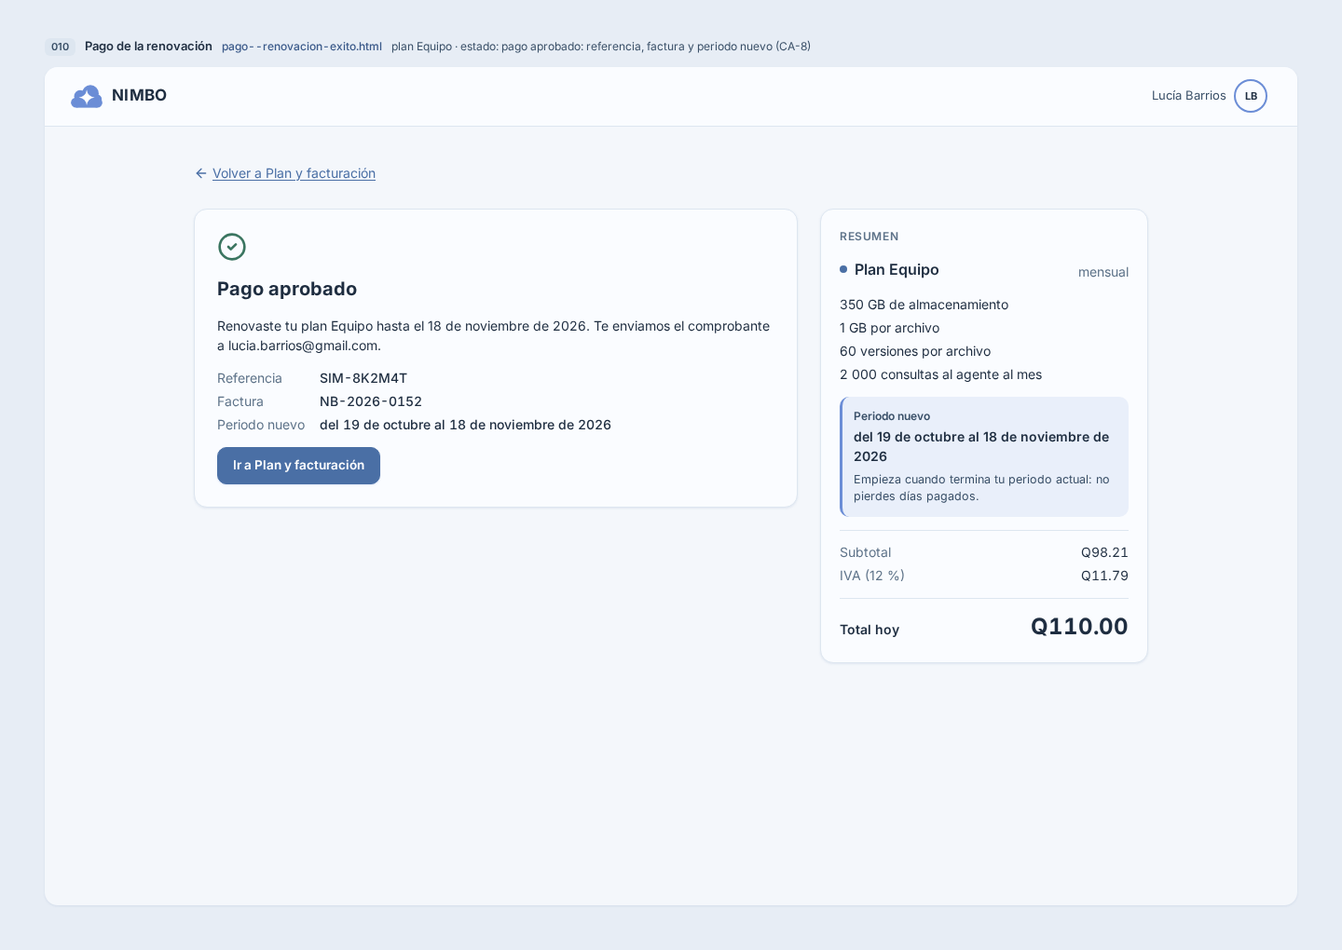
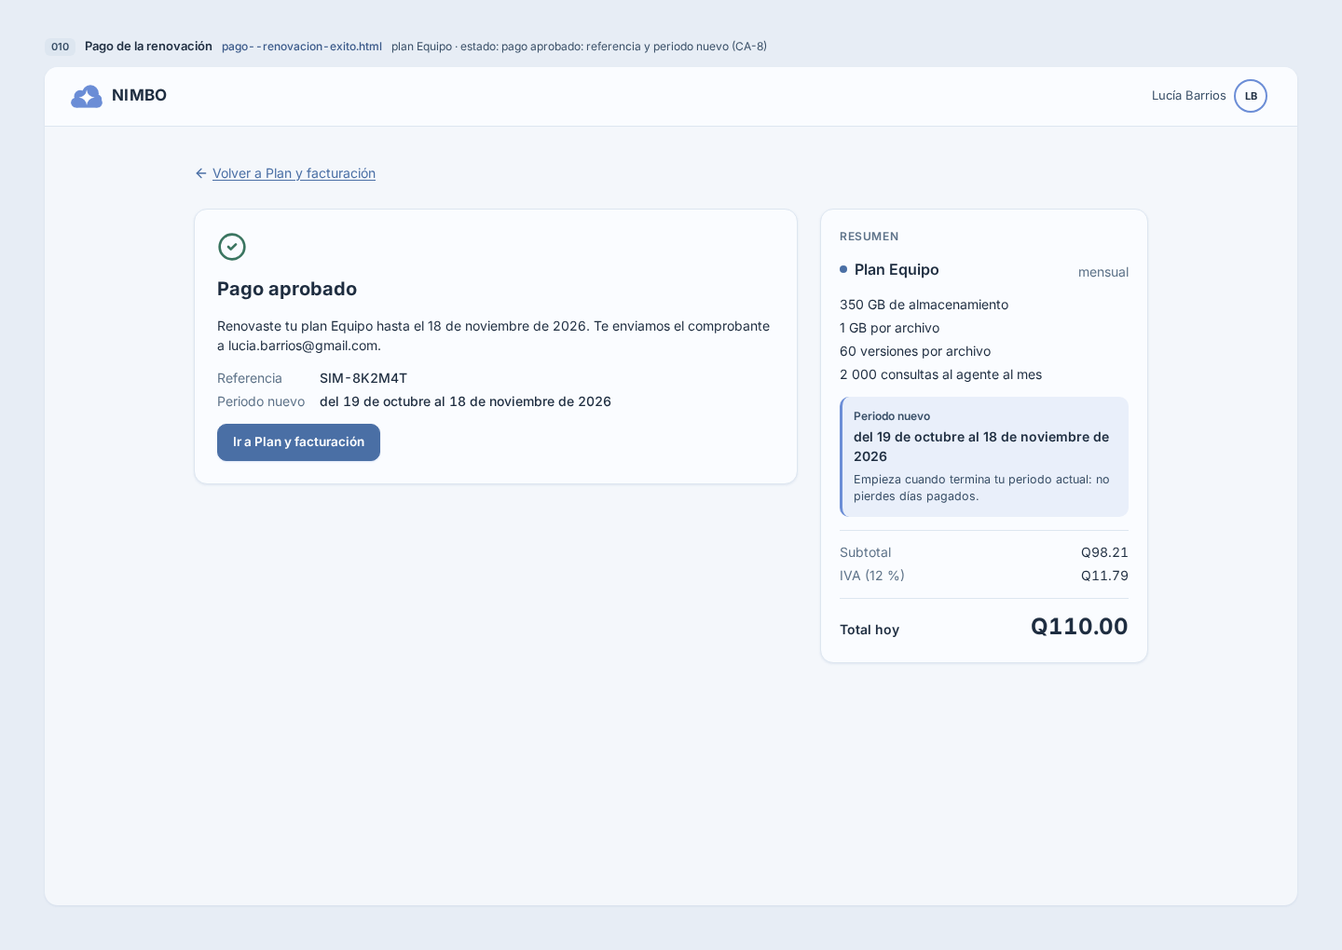
docs(design): mockups de la 010 alineados con la spec y la web [010]
Quinta auditoría del PR #63: M-5 (el aprobado de la renovación sin número de
factura; «Visa ···· 4242» como en spec §6), m-1 (comentario de pagina),
m-2 (CSS_PLANES en generar-planes), m-3 (inputmode por parámetro), m-4
(consultas del plan y subtotal e IVA calculados con la regla de breakdown.ts),
m-5 (VENCE y AVISO_VENCIDA en billing.js), m-6 (layoutPago) y m-7
(ui-guidelines). Los refactores reproducen el mismo HTML; se recapturan los
dos estados que cambian.

Changed region(s): [[0.1562, 0.3951, 0.4688, 0.5167], [0.4688, 0.0304, 0.5938, 0.0608]]

diff --git a/docs/design/mockups/_generadores/billing/generar-pago.js b/docs/design/mockups/_generadores/billing/generar-pago.js
@@ -10,6 +10,16 @@ const repo = process.argv[2];
 if (!repo) throw new Error('Falta la ruta del worktree');
 const { icon, ACTUAL, CORREO, alerta } = B;
 
+// Subtotal e IVA desde el precio, con la regla de packages/contracts/src/billing/breakdown.ts (RN-2 de la 009):
+// subtotal = precio × 100 / 112 redondeado al centavo (mitades hacia arriba); IVA = precio − subtotal.
+function importes(precio) {
+  const total = Math.round(Number(precio.replace('Q', '')) * 100);
+  const subtotal = Math.floor((total * 100 + 56) / 112);
+  const q = (centavos) => `Q${(centavos / 100).toFixed(2)}`;
+  return { subtotal: q(subtotal), iva: q(total - subtotal) };
+}
+const IMPORTES = importes(ACTUAL.precio);
+
 const CSS_PAGO = `
   .pay { max-width: 1024px; margin: 0 auto; display: flex; flex-direction: column; gap: 16px; }
   .pay-grid { display: grid; grid-template-columns: minmax(0, 1fr) 22rem; gap: 24px; align-items: start; }
@@ -73,11 +83,11 @@ const PERIODOS = {
   },
 };
 
-function campo({ id, label, valor, tipo = 'text', auto, hint, adorno, extra = '' }) {
+function campo({ id, label, valor, tipo = 'text', modo = 'numeric', auto, hint, adorno, extra = '' }) {
   return `
             <div class="f">
               <label for="${id}">${label}</label>
-              <div class="f-ctl"><input id="${id}" type="${tipo}" inputmode="${id === 'pago-nit' ? 'text' : 'numeric'}" autocomplete="${auto}" value="${valor}"${adorno ? ' class="pr"' : ''}${hint ? ` aria-describedby="${id}-ayuda"` : ''}${extra}>${adorno ? `<span class="f-adorn"><span class="badge">${adorno}</span></span>` : ''}</div>${hint ? `
+              <div class="f-ctl"><input id="${id}" type="${tipo}" inputmode="${modo}" autocomplete="${auto}" value="${valor}"${adorno ? ' class="pr"' : ''}${hint ? ` aria-describedby="${id}-ayuda"` : ''}${extra}>${adorno ? `<span class="f-adorn"><span class="badge">${adorno}</span></span>` : ''}</div>${hint ? `
               <p class="f-hint" id="${id}-ayuda">${hint}</p>` : ''}
             </div>`;
 }
@@ -95,7 +105,7 @@ function formulario({ numero, rechazado = false }) {
             </header>${fallo}
             <form novalidate>${campo({ id: 'pago-number', label: 'Número de tarjeta', valor: numero, auto: 'cc-number', adorno: 'VISA' })}
               <div class="row2">${campo({ id: 'pago-expiry', label: 'Vencimiento', valor: '12/28', auto: 'cc-exp', hint: 'Mes y año, como 12/28.' })}${campo({ id: 'pago-cvc', label: 'CVC', valor: '123', tipo: 'password', auto: 'cc-csc' })}
-              </div>${campo({ id: 'pago-nit', label: 'NIT para la factura', valor: '4527913-6', auto: 'off' })}
+              </div>${campo({ id: 'pago-nit', label: 'NIT para la factura', valor: '4527913-6', modo: 'text', auto: 'off' })}
               <button class="btn btn-primary" type="submit">Pagar ${ACTUAL.precio}</button>
             </form>
             <div class="test-cards">Tarjetas de prueba:
@@ -116,15 +126,15 @@ const resumen = (per) => `
               <li>${ACTUAL.almac} de almacenamiento</li>
               <li>${ACTUAL.archivo} por archivo</li>
               <li>${ACTUAL.versiones} versiones por archivo</li>
-              <li>2 000 consultas al agente al mes</li>
+              <li>${ACTUAL.agente.replace(' / mes', '')} consultas al agente al mes</li>
             </ul>
             <div class="period">
               <dl><dt>Periodo nuevo</dt><dd>${per.rango}</dd></dl>
               <p>${per.nota}</p>
             </div>
             <dl class="amounts">
-              <div><dt>Subtotal</dt><dd>Q98.21</dd></div>
-              <div><dt>IVA (12 %)</dt><dd>Q11.79</dd></div>
+              <div><dt>Subtotal</dt><dd>${IMPORTES.subtotal}</dd></div>
+              <div><dt>IVA (12 %)</dt><dd>${IMPORTES.iva}</dd></div>
             </dl>
             <p class="total"><span>Total hoy</span><span>${ACTUAL.precio}</span></p>
           </section>`;
@@ -136,13 +146,12 @@ const aprobado = (per, { soloLectura = false } = {}) => `
             <p>Renovaste tu plan ${ACTUAL.nombre} hasta el ${per.vence}. Te enviamos el comprobante a ${CORREO}.${soloLectura ? ' Tu cuenta ya no está en solo lectura: puedes volver a subir y editar.' : ''}</p>
             <dl>
               <dt>Referencia</dt><dd>SIM-8K2M4T</dd>
-              <dt>Factura</dt><dd>NB-2026-0152</dd>
               <dt>Periodo nuevo</dt><dd>${per.rango}</dd>
             </dl>
             <a class="btn btn-primary" href="../suscripcion/suscripcion--vigente.html">Ir a Plan y facturación</a>
           </section>`;
 
-const pagina = (izq, per) => `
+const layoutPago = (izq, per) => `
         <div class="pay">
           <a class="back" href="../suscripcion/suscripcion--por-vencer.html">${icon('arrowLeft', 16)}Volver a Plan y facturación</a>
           <div class="pay-grid">${izq}${resumen(per)}
@@ -153,19 +162,19 @@ const A = PERIODOS.anticipada;
 const ESTADOS = [
   {
     estado: 'renovacion', rotulo: `renovar por adelantado (vence el 19 de octubre): el resumen muestra el periodo nuevo ${A.rango} (CA-8)`,
-    cuerpo: pagina(formulario({ numero: '4242 4242 4242 4242' }), A),
+    cuerpo: layoutPago(formulario({ numero: '4242 4242 4242 4242' }), A),
   },
   {
     estado: 'renovacion-rechazado', rotulo: 'tarjeta 4000 0000 0000 0002 rechazada: nada cambia (CA-9)',
-    cuerpo: pagina(formulario({ numero: '4000 0000 0000 0002', rechazado: true }), A),
+    cuerpo: layoutPago(formulario({ numero: '4000 0000 0000 0002', rechazado: true }), A),
   },
   {
-    estado: 'renovacion-exito', rotulo: 'pago aprobado: referencia, factura y periodo nuevo (CA-8)',
-    cuerpo: pagina(aprobado(A), A),
+    estado: 'renovacion-exito', rotulo: 'pago aprobado: referencia y periodo nuevo (CA-8)',
+    cuerpo: layoutPago(aprobado(A), A),
   },
   {
     estado: 'renovacion-solo-lectura', rotulo: 'renovar desde solo lectura: el periodo nuevo empieza hoy (CA-10)',
-    cuerpo: pagina(formulario({ numero: '4242 4242 4242 4242' }), PERIODOS.soloLectura),
+    cuerpo: layoutPago(formulario({ numero: '4242 4242 4242 4242' }), PERIODOS.soloLectura),
   },
 ];
 

diff --git a/docs/design/mockups/_generadores/billing/billing.js b/docs/design/mockups/_generadores/billing/billing.js
@@ -32,6 +32,13 @@ const PLANES = {
 const ACTUAL = PLANES.equipo;
 // Tarjeta guardada del último pago aprobado: solo marca y últimos 4, para mostrar (RN-2, RN-9 de la 009)
 const TARJETA = { marca: 'VISA', ultimos: '4242' };
+// Fin del periodo vigente de los estados (5 de octubre al 4 de noviembre).
+const VENCE = '4 de noviembre de 2026';
+// Textos del aviso de cuenta vencida (M.avisoSoloLectura), iguales en Plan y facturación y en Cambiar de plan.
+const AVISO_VENCIDA = {
+  titulo: 'Tu suscripción venció.',
+  cuerpo: 'Puedes ver y descargar tus archivos, pero no subir ni editar. Renueva tu plan.',
+};
 const CORREO = M.CUENTA.correo;
 // Uso de Lucía: cabe en Pro (100 GB) y no en Personal (15 GB)
 const CUOTA = { usado: '64.2 GB', total: '350 GB', pct: 18 };
@@ -188,6 +195,8 @@ function alerta(a) {
 }
 
 const tarjetaTexto = (t = TARJETA) => `<span class="brand-chip">${t.marca}</span> <span class="num">···· ${t.ultimos}</span>`;
+// La tarjeta dentro de una frase, como la web (spec 010 §6): «Visa ···· 4242».
+const tarjetaEnFrase = (t = TARJETA) => `${t.marca.charAt(0)}${t.marca.slice(1).toLowerCase()} ···· ${t.ultimos}`;
 
 // Diálogo (AlertDialog de shadcn). d: { titulo, descripcion, resumen: [[dt, dd]], aviso: { titulo, items }, error,
 // confirmar, cancelar = 'Cancelar', foco: 'cancelar' | 'confirmar' }
@@ -226,7 +235,7 @@ const topbarSolo = () => `
         </button>
       </header>`;
 
-// p: { carpeta, archivo, chip, pantalla, rotulo, titulo, crumbs, cuerpo, dialogo, sinBarra, generador }
+// p: { pantalla, archivo, rotulo, estado, crumbs, cuerpo, dialogo, sinBarra, css, generador }
 function pagina(p) {
   const html = `${M.cabecera({
     titulo: `${p.pantalla} · Nimbo — ${p.rotulo}`,
@@ -265,32 +274,6 @@ function escribir(repo, carpeta, archivo, html) {
   console.log(`billing/${carpeta}/${archivo}`);
 }
 
-module.exports = { P, icon, PLANES, ACTUAL, TARJETA, CORREO, CUOTA, CSS, alerta, tarjetaTexto, dialogo, pagina, escribir };
-
-// ---------- CSS de la lista de planes (PlanCard de 008 + PlanComparisonTable de 009) ----------
-module.exports.CSS_PLANES = `
-  .plans { display: grid; grid-template-columns: repeat(4, minmax(0, 1fr)); gap: 16px; margin-top: 20px; }
-  .pc { padding: 20px; display: flex; flex-direction: column; gap: 14px; }
-  .pc.is-current { border-color: var(--primary); box-shadow: inset 0 0 0 1px var(--primary), var(--shadow-card); }
-  .pc-head { display: flex; flex-wrap: wrap; align-items: center; justify-content: space-between; gap: 8px; }
-  .pc h2 { font-size: 16px; }
-  .pc-desc { margin: 0; min-height: 40px; font-size: 13px; color: var(--muted-foreground); }
-  .pc-price { margin: 0; display: flex; align-items: baseline; gap: 4px; font-size: 24px; font-weight: 700; font-variant-numeric: tabular-nums; }
-  .pc-price span { font-size: 12px; font-weight: 400; color: var(--muted-foreground); }
-  .pc dl { margin: 0; padding-top: 10px; border-top: 1px solid var(--border); display: grid; gap: 8px; font-size: 13px; }
-  .pc dl div { display: flex; justify-content: space-between; gap: 8px; }
-  .pc dt { color: var(--muted-foreground); }
-  .pc dd { margin: 0; font-weight: 500; font-variant-numeric: tabular-nums; }
-  .pc-action { margin-top: auto; padding-top: 4px; }
-  .pc-action .btn { width: 100%; }
-  .pc-current { display: flex; align-items: center; justify-content: center; gap: 6px; min-height: 40px; margin: 0; font-size: 13.5px; font-weight: 600; color: var(--primary-hover); }
-  .cmp { margin-top: 20px; overflow-x: auto; }
-  .cmp table { width: 100%; border-collapse: collapse; font-size: 13px; }
-  .cmp th, .cmp td { padding: 12px 16px; border-bottom: 1px solid var(--border); text-align: center; white-space: nowrap; }
-  .cmp thead th { font-weight: 600; background: var(--muted); }
-  .cmp tbody th { text-align: left; font-weight: 500; color: var(--secondary-foreground); }
-  .cmp tbody tr:last-child > * { border-bottom: 0; }
-  .cmp td { font-variant-numeric: tabular-nums; }
-  @media (max-width: 1180px) { .plans { grid-template-columns: repeat(2, minmax(0, 1fr)); } }
-  @media (max-width: 600px) { .plans { grid-template-columns: minmax(0, 1fr); } .pc-desc { min-height: 0; } .pc-action .btn { min-height: 44px; } }
-`;
+module.exports = {
+  P, icon, PLANES, ACTUAL, TARJETA, VENCE, AVISO_VENCIDA, CORREO, CUOTA, CSS, alerta, tarjetaTexto, tarjetaEnFrase, dialogo, pagina, escribir,
+};

diff --git a/docs/design/mockups/_generadores/billing/generar-planes.js b/docs/design/mockups/_generadores/billing/generar-planes.js
@@ -9,9 +9,36 @@ const B = require('./billing.js');
 
 const repo = process.argv[2];
 if (!repo) throw new Error('Falta la ruta del worktree');
-const { icon, PLANES, ACTUAL, TARJETA, CUOTA, tarjetaTexto } = B;
-const VENCE = '4 de noviembre de 2026';
+const { icon, PLANES, ACTUAL, TARJETA, VENCE, AVISO_VENCIDA, CUOTA, tarjetaTexto } = B;
 const ORDEN = ['personal', 'pro', 'equipo', 'institucional'];
+
+// ---------- CSS de la lista de planes (PlanCard de 008 + PlanComparisonTable de 009) ----------
+const CSS_PLANES = `
+  .plans { display: grid; grid-template-columns: repeat(4, minmax(0, 1fr)); gap: 16px; margin-top: 20px; }
+  .pc { padding: 20px; display: flex; flex-direction: column; gap: 14px; }
+  .pc.is-current { border-color: var(--primary); box-shadow: inset 0 0 0 1px var(--primary), var(--shadow-card); }
+  .pc-head { display: flex; flex-wrap: wrap; align-items: center; justify-content: space-between; gap: 8px; }
+  .pc h2 { font-size: 16px; }
+  .pc-desc { margin: 0; min-height: 40px; font-size: 13px; color: var(--muted-foreground); }
+  .pc-price { margin: 0; display: flex; align-items: baseline; gap: 4px; font-size: 24px; font-weight: 700; font-variant-numeric: tabular-nums; }
+  .pc-price span { font-size: 12px; font-weight: 400; color: var(--muted-foreground); }
+  .pc dl { margin: 0; padding-top: 10px; border-top: 1px solid var(--border); display: grid; gap: 8px; font-size: 13px; }
+  .pc dl div { display: flex; justify-content: space-between; gap: 8px; }
+  .pc dt { color: var(--muted-foreground); }
+  .pc dd { margin: 0; font-weight: 500; font-variant-numeric: tabular-nums; }
+  .pc-action { margin-top: auto; padding-top: 4px; }
+  .pc-action .btn { width: 100%; }
+  .pc-current { display: flex; align-items: center; justify-content: center; gap: 6px; min-height: 40px; margin: 0; font-size: 13.5px; font-weight: 600; color: var(--primary-hover); }
+  .cmp { margin-top: 20px; overflow-x: auto; }
+  .cmp table { width: 100%; border-collapse: collapse; font-size: 13px; }
+  .cmp th, .cmp td { padding: 12px 16px; border-bottom: 1px solid var(--border); text-align: center; white-space: nowrap; }
+  .cmp thead th { font-weight: 600; background: var(--muted); }
+  .cmp tbody th { text-align: left; font-weight: 500; color: var(--secondary-foreground); }
+  .cmp tbody tr:last-child > * { border-bottom: 0; }
+  .cmp td { font-variant-numeric: tabular-nums; }
+  @media (max-width: 1180px) { .plans { grid-template-columns: repeat(2, minmax(0, 1fr)); } }
+  @media (max-width: 600px) { .plans { grid-template-columns: minmax(0, 1fr); } .pc-desc { min-height: 0; } .pc-action .btn { min-height: 44px; } }
+`;
 
 // ---------- Lista ----------
 function tarjetaPlan(clave) {
@@ -54,11 +81,7 @@ function lista({ soloLectura = false } = {}) {
   const intro = soloLectura
     ? 'Tu suscripción venció. Si eliges Personal, el cambio se aplica de inmediato y sin cobro. Si eliges un plan de pago, se aplica cuando renueves.'
     : `El cambio se aplica el ${VENCE}, cuando termina tu periodo. Hasta entonces conservas ${ACTUAL.nombre} y sus límites. No hay cobro proporcional.`;
-  const banner = soloLectura ? M.avisoSoloLectura({
-    titulo: 'Tu suscripción venció.',
-    cuerpo: 'Puedes ver y descargar tus archivos, pero no subir ni editar. Renueva tu plan.',
-    href: '../pago/pago--renovacion.html',
-  }) : '';
+  const banner = soloLectura ? M.avisoSoloLectura({ ...AVISO_VENCIDA, href: '../pago/pago--renovacion.html' }) : '';
   return `${banner}
         <a class="back" href="../suscripcion/suscripcion--${soloLectura ? 'vencida' : 'vigente'}.html">${icon('arrowLeft', 16)}Volver a Plan y facturación</a>
         <div class="sub-head">
@@ -141,6 +164,6 @@ for (const v of ESTADOS) {
   const archivo = `planes--${v.estado}.html`;
   B.escribir(repo, 'planes', archivo, B.pagina({
     generador: 'generar-planes.js', pantalla: 'Cambiar de plan', estado: v.estado, archivo, rotulo: v.rotulo,
-    crumbs: ['Cuenta', 'Plan y facturación', 'Cambiar de plan'], cuerpo: v.cuerpo, dialogo: v.dialogo, css: B.CSS_PLANES,
+    crumbs: ['Cuenta', 'Plan y facturación', 'Cambiar de plan'], cuerpo: v.cuerpo, dialogo: v.dialogo, css: CSS_PLANES,
   }));
 }

diff --git a/docs/design/mockups/_generadores/billing/generar-suscripcion.js b/docs/design/mockups/_generadores/billing/generar-suscripcion.js
@@ -8,7 +8,7 @@ const B = require('./billing.js');
 
 const repo = process.argv[2];
 if (!repo) throw new Error('Falta la ruta del worktree');
-const { icon, ACTUAL, PLANES, TARJETA, CORREO, alerta, tarjetaTexto } = B;
+const { icon, ACTUAL, PLANES, TARJETA, VENCE, AVISO_VENCIDA, CORREO, alerta, tarjetaTexto, tarjetaEnFrase } = B;
 const PAGO = '../pago/pago--renovacion.html';
 const CAMBIAR = '../planes/planes--cambiar-plan.html';
 
@@ -17,7 +17,7 @@ const pagada = (fecha, factura, ref, plan, monto) => ({ fecha, factura, ref, pla
 const CICLOS = {
   // Periodo del 5 de octubre al 4 de noviembre
   vigente: {
-    vence: '4 de noviembre de 2026', tarjeta: TARJETA,
+    vence: VENCE, tarjeta: TARJETA,
     pagos: [
       pagada('5 de octubre de 2026', 'NB-2026-0131', 'SIM-7F3K2Q', 'Equipo', 'Q110.00'),
       pagada('5 de septiembre de 2026', 'NB-2026-0098', 'SIM-4H8N1C', 'Equipo', 'Q110.00'),
@@ -190,7 +190,7 @@ const ESTADOS = [
   {
     estado: 'por-vencer', ciclo: 'porVencer', modo: 'auto',
     rotulo: 'vence en 2 días con renovación automática: aviso informativo con la tarjeta que se cobrará (§6, CA-5)',
-    aviso: alerta({ tono: 'info', icono: 'calendarClock', titulo: `Tu plan ${ACTUAL.nombre} vence el ${CICLOS.porVencer.vence}. Se renovará con Visa •••• ${TARJETA.ultimos}.` }),
+    aviso: alerta({ tono: 'info', icono: 'calendarClock', titulo: `Tu plan ${ACTUAL.nombre} vence el ${CICLOS.porVencer.vence}. Se renovará con ${tarjetaEnFrase()}.` }),
   },
   {
     estado: 'renovacion-desactivada', ciclo: 'vigente', modo: 'off',
@@ -221,11 +221,7 @@ const ESTADOS = [
   {
     estado: 'vencida', ciclo: 'vencida', modo: 'vencida',
     rotulo: 'vencida, en solo lectura: aviso de solo lectura del layout con «Renovar plan»; interruptor deshabilitado (§6, CA-2, CA-14)',
-    aviso: M.avisoSoloLectura({
-      titulo: 'Tu suscripción venció.',
-      cuerpo: 'Puedes ver y descargar tus archivos, pero no subir ni editar. Renueva tu plan.',
-      href: PAGO,
-    }),
+    aviso: M.avisoSoloLectura({ ...AVISO_VENCIDA, href: PAGO }),
   },
   {
     estado: 'confirmar-desactivar', ciclo: 'vigente', modo: 'auto',

diff --git a/docs/design/mockups/billing/pago/pago--renovacion-exito.html b/docs/design/mockups/billing/pago/pago--renovacion-exito.html
@@ -3,7 +3,7 @@
 <head>
 <meta charset="utf-8">
 <meta name="viewport" content="width=device-width, initial-scale=1">
-<title>Pago de la renovación · Nimbo — pago aprobado: referencia, factura y periodo nuevo (CA-8)</title>
+<title>Pago de la renovación · Nimbo — pago aprobado: referencia y periodo nuevo (CA-8)</title>
 <!-- Mockup de referencia (spec 010: renovación, vencimiento y cambio de plan). Estado: renovacion-exito. -->
 <!-- Colores: valores de ui-guidelines.md §3 (tonos AA). La implementación usa tokens, components/ui y components/nimbo. -->
 <!-- Generado con _generadores/billing/generar-pago.js (marco, carpetas y billing). No editar a mano. -->
@@ -461,7 +461,7 @@
 </head>
 <body>
 
-<aside class="sheet-label" aria-label="Rótulo del mockup"><span class="chip">010</span> <strong>Pago de la renovación</strong> <span class="file">pago--renovacion-exito.html</span> <span>plan Equipo · estado: pago aprobado: referencia, factura y periodo nuevo (CA-8)</span></aside>
+<aside class="sheet-label" aria-label="Rótulo del mockup"><span class="chip">010</span> <strong>Pago de la renovación</strong> <span class="file">pago--renovacion-exito.html</span> <span>plan Equipo · estado: pago aprobado: referencia y periodo nuevo (CA-8)</span></aside>
 
 <div class="canvas">
   <div class="app solo">
@@ -482,7 +482,6 @@
             <p>Renovaste tu plan Equipo hasta el 18 de noviembre de 2026. Te enviamos el comprobante a lucia.barrios@gmail.com.</p>
             <dl>
               <dt>Referencia</dt><dd>SIM-8K2M4T</dd>
-              <dt>Factura</dt><dd>NB-2026-0152</dd>
               <dt>Periodo nuevo</dt><dd>del 19 de octubre al 18 de noviembre de 2026</dd>
             </dl>
             <a class="btn btn-primary" href="../suscripcion/suscripcion--vigente.html">Ir a Plan y facturación</a>

diff --git a/docs/design/mockups/billing/suscripcion/suscripcion--por-vencer.html b/docs/design/mockups/billing/suscripcion/suscripcion--por-vencer.html
@@ -472,7 +472,7 @@
         <div class="al al-info" role="status">
           <svg class="ico " width="20" height="20" viewBox="0 0 24 24" fill="none" stroke="currentColor" stroke-width="2" stroke-linecap="round" stroke-linejoin="round" aria-hidden="true" focusable="false"><path d="M21 7.5V6a2 2 0 0 0-2-2H5a2 2 0 0 0-2 2v14a2 2 0 0 0 2 2h3.5"/><path d="M16 2v4"/><path d="M8 2v4"/><path d="M3 10h5"/><path d="M17.5 17.5 16 16.3V14"/><circle cx="16" cy="16" r="6"/></svg>
           <div class="al-body">
-            <p class="al-title">Tu plan Equipo vence el 19 de octubre de 2026. Se renovará con Visa •••• 4242.</p>
+            <p class="al-title">Tu plan Equipo vence el 19 de octubre de 2026. Se renovará con Visa ···· 4242.</p>
           </div>
         </div>
           <div class="bill-grid">

diff --git a/docs/sdd/ui-guidelines.md b/docs/sdd/ui-guidelines.md
@@ -298,10 +298,10 @@ identificador.
 | Búsqueda | storage | 018 | `mockups/storage/busqueda/` | `capturas/storage/busqueda/` | resultados, sin-resultados | Borrador (resultados) |
 | Compartir y accesos | sharing | 012 | `mockups/sharing/compartir/` | `capturas/sharing/compartir/` | default, lista-accesos | Borrador (default) |
 | Enlace público (creación y página pública) | sharing | 013 | `mockups/sharing/enlace-publico/` | `capturas/sharing/enlace-publico/` | con-contrasena, expirado, revocado | Borrador (con-contrasena) |
-| Planes y comparador; cambiar de plan (`/suscripcion/cambiar-plan`) | billing | 008, 010 | `mockups/billing/planes/` | `capturas/billing/planes/` | default, plan-actual; 010: cambiar-plan, confirmar-cambio (aviso de versiones, CA-21), confirmar-personal, error | Borrador (plan-actual; 010: cambiar-plan, confirmar-cambio, confirmar-personal, confirmar-personal-solo-lectura, cambio-error) |
-| Pago simulado; pago de la renovación (`/suscripcion/renovar`) | billing | 009, 010 | `mockups/billing/pago/` | `capturas/billing/pago/` | default, rechazado, exito; 010: renovacion, renovacion-rechazado, renovacion-exito | Borrador (default; 010: renovacion, renovacion-rechazado, renovacion-exito, renovacion-solo-lectura) |
+| Planes y comparador; cambiar de plan (`/suscripcion/cambiar-plan`) | billing | 008, 010 | `mockups/billing/planes/` | `capturas/billing/planes/` | default, plan-actual; 010: cambiar-plan, confirmar-cambio (aviso de versiones, CA-21), confirmar-personal, confirmar-personal-solo-lectura, cambio-error | Borrador (plan-actual); 010: aprobados por Juan Marcos (2026-10-18), los cinco estados |
+| Pago simulado; pago de la renovación (`/suscripcion/renovar`) | billing | 009, 010 | `mockups/billing/pago/` | `capturas/billing/pago/` | default, rechazado, exito; 010: renovacion, renovacion-rechazado, renovacion-exito, renovacion-solo-lectura | Borrador (default); 010: aprobados por Juan Marcos (2026-10-18), los cuatro estados |
 | Historial de pagos y facturas | billing | 009 | `mockups/billing/suscripcion/` (misma pantalla) | `capturas/billing/suscripcion/` | default, vacio | Borrador (cubierto por suscripcion) |
-| Mi suscripción (renovación, cambio de plan) | billing | 010 | `mockups/billing/suscripcion/` | `capturas/billing/suscripcion/` | vigente, por-vencer, vencida, cambio-programado, renovacion-desactivada | Borrador (010: vigente, por-vencer, renovacion-desactivada, cambio-programado, cambio-a-personal, vencida, confirmar-desactivar, error-renovacion; propuesta, paquete histórico) |
+| Mi suscripción (renovación, cambio de plan) | billing | 010 | `mockups/billing/suscripcion/` | `capturas/billing/suscripcion/` | vigente, por-vencer, renovacion-desactivada, cambio-programado, cambio-a-personal, vencida, confirmar-desactivar, error-renovacion | 010: aprobados por Juan Marcos (2026-10-18), los ocho estados; propuesta, paquete histórico |
 | Editor .docx con presencia | editing | 016 | `mockups/editing/editor/` | `capturas/editing/editor/` | editando, limite-editores, guardado-fallido, solo-lectura; 016: cargando, no-disponible | Borrador (editando de la propuesta, solo referencia); **Aprobado (2026-10-17, Adrián, recorrido de 016 T-10)**: coeditando, cargando, limite-editores, guardado-fallido, solo-lectura-lector, solo-lectura-plan, solo-lectura-plan-propietario, solo-lectura-vencida, solo-lectura-tamano, no-disponible |
 | Historial de versiones con autoría | editing | 014, 016 | `mockups/storage/ficha-archivo/` (misma pantalla) | `capturas/storage/ficha-archivo/` | default, restaurando; 016: participantes | Borrador (cubierto por ficha-archivo; participantes con 016) |
 | Panel del agente | intelligence | 020 | `mockups/intelligence/panel-agente/` | `capturas/intelligence/panel-agente/` | vacio, respondiendo, con-citas, cita-incierta, limite-alcanzado | Borrador (con-citas) |

diff --git a/docs/design/mockups/billing/pago/README.md b/docs/design/mockups/billing/pago/README.md
@@ -12,7 +12,7 @@
   - default: `pago.html` (contratación de la 009)
   - renovacion: renovar por adelantado (vence el 19 de octubre); el resumen muestra «Periodo nuevo: del 19 de octubre al 18 de noviembre de 2026» y que no se pierden días (`pago--renovacion.html`, CA-8, RN-1)
   - renovacion-rechazado: `4000 0000 0000 0002`; `Alert` de error con el mensaje del catálogo de la 009 y «Tu plan y su vencimiento no cambiaron.» (`pago--renovacion-rechazado.html`, CA-9)
-  - renovacion-exito: «Pago aprobado», referencia, factura y periodo nuevo; «Ir a Plan y facturación» (`pago--renovacion-exito.html`, CA-8)
+  - renovacion-exito: «Pago aprobado», referencia y periodo nuevo (el recibo no trae el número de factura: llega por correo y en Plan y facturación); «Ir a Plan y facturación» (`pago--renovacion-exito.html`, CA-8)
   - renovacion-solo-lectura: desde una cuenta vencida, el periodo nuevo empieza hoy y termina la solo lectura (`pago--renovacion-solo-lectura.html`, CA-10)
 - **Capturas**: `docs/design/capturas/billing/pago/` (`pago--<estado>--<360|1440>.png`). axe-core sin violaciones a 360 y
   1440 px, sin desbordamiento horizontal, objetivos ≥ 24 px (44 px en los campos y botones), sin errores de consola.
